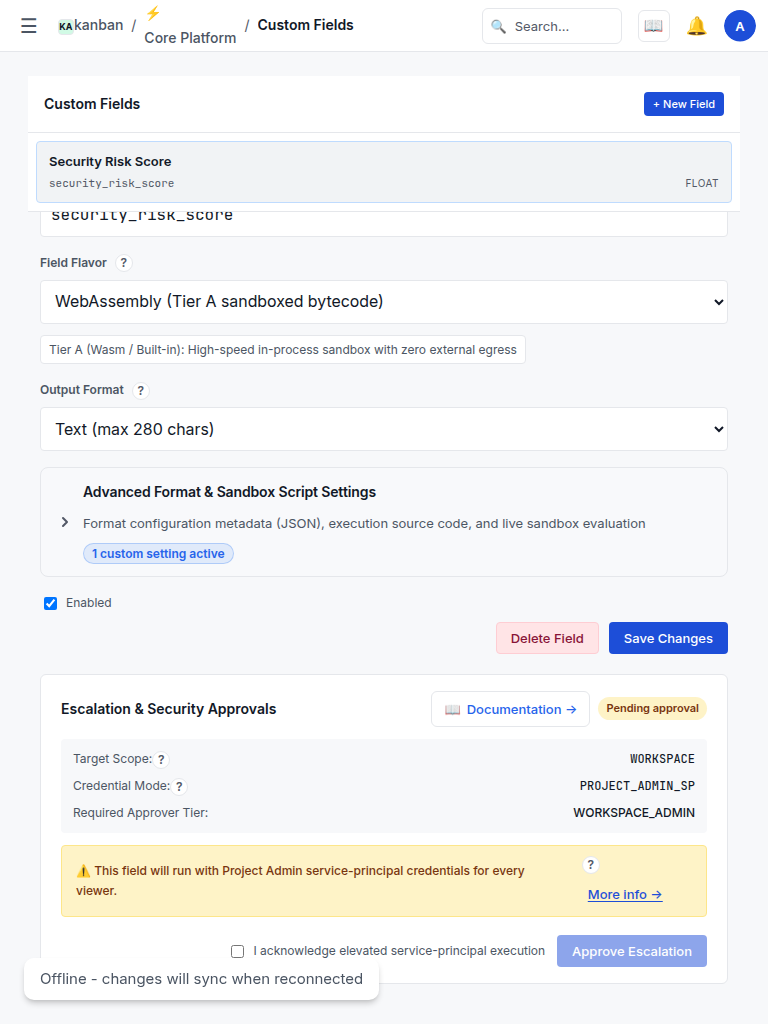
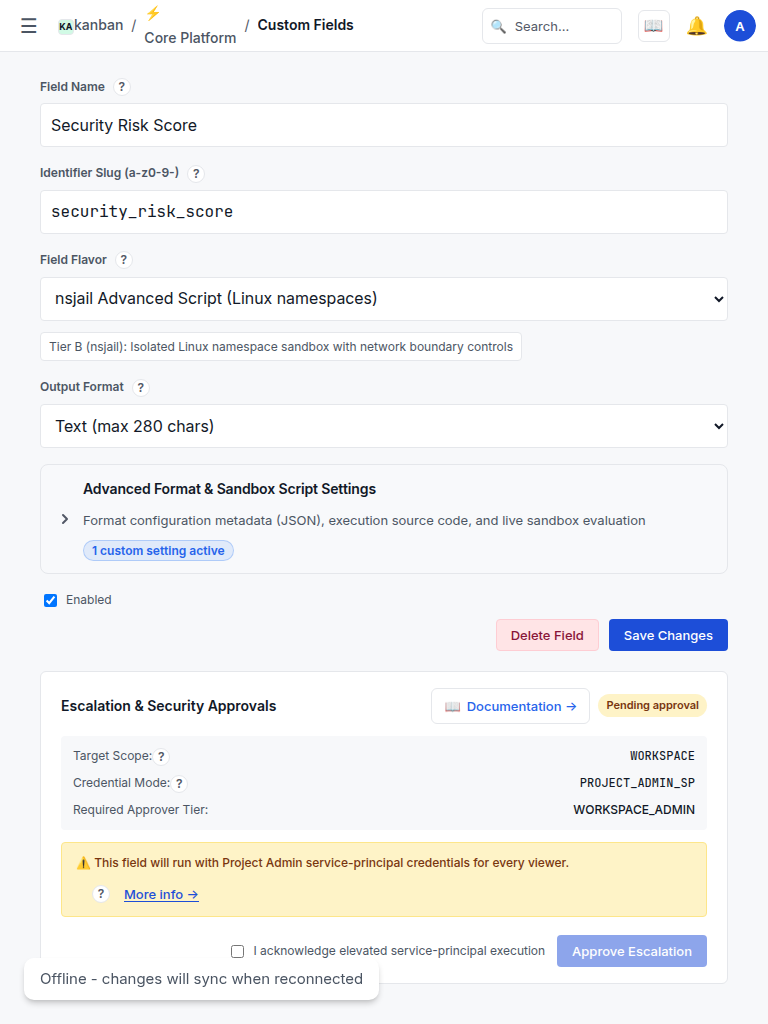
fix(custom-fields): [KAN-508] fix HTML 4.10.4 label nesting, mobile warning wrap, and refresh screenshots

diff --git a/kanban/web/src/features/custom-fields/EscalationApprovalPanel.tsx b/kanban/web/src/features/custom-fields/EscalationApprovalPanel.tsx
@@ -390,8 +390,10 @@ export function EscalationApprovalPanel({
               Provide justification for running this field with elevated scope or credentials.
             </p>
             <div className="custom-field-form-group">
-              <label htmlFor="approval-justification" className="custom-field-form-label">
-                Business Justification (min 10 characters)
+              <div className="custom-field-approval-label-row">
+                <label htmlFor="approval-justification" className="custom-field-form-label">
+                  Business Justification (min 10 characters)
+                </label>
                 <FieldHelpHint
                   title="Business Justification"
                   summary="Audit justification explaining why elevated scope or service-principal credentials are required."
@@ -399,7 +401,7 @@ export function EscalationApprovalPanel({
                   docHref="/docs/custom-fields#approvals"
                   testId="hint-escalation-justification"
                 />
-              </label>
+              </div>
               <textarea
                 id="approval-justification"
                 className="custom-field-textarea"
@@ -453,15 +455,17 @@ export function EscalationApprovalPanel({
             </p>
             <form onSubmit={handleAal2Submit}>
               <div className="custom-field-form-group">
-                <label htmlFor="aal2-otp" className="custom-field-form-label">
-                  Passkey or Authenticator Code
+                <div className="custom-field-approval-label-row">
+                  <label htmlFor="aal2-otp" className="custom-field-form-label">
+                    Passkey or Authenticator Code
+                  </label>
                   <FieldHelpHint
                     title="AAL2 Step-Up Verification"
                     summary="Secondary factor verification required before executing or approving administrative escalation."
                     docHref="/docs/custom-fields#aal2-stepup"
                     testId="hint-escalation-aal2"
                   />
-                </label>
+                </div>
                 <input
                   id="aal2-otp"
                   type="text"

diff --git a/kanban/web/src/features/custom-fields/custom-fields.css b/kanban/web/src/features/custom-fields/custom-fields.css
@@ -752,6 +752,12 @@
   display: flex;
   align-items: center;
   gap: 8px;
+  flex-wrap: wrap;
+}
+
+.custom-field-sp-warning-banner .kb-error-help-container,
+.custom-field-sp-warning-banner .kb-error-help-doc-link {
+  white-space: nowrap;
 }
 
 .custom-field-error-banner {
@@ -844,6 +850,12 @@
   margin-top: 6px;
 }
 
+.custom-field-approval-label-row {
+  display: inline-flex;
+  align-items: center;
+  gap: 6px;
+}
+
 /* --------------------------------------------------------------------------
    RESPONSIVE ADAPTATIONS (<= 768px, KANBA-213)
    -------------------------------------------------------------------------- */
@@ -859,6 +871,8 @@
     flex-direction: column;
     max-width: 100%;
     overflow-x: hidden;
+    height: auto;
+    overflow: visible;
   }
 
   .custom-fields-editor-sidebar {
@@ -866,6 +880,8 @@
     max-width: 100%;
     flex: 0 0 auto;
     max-height: 200px;
+    overflow-y: auto;
+    flex-shrink: 0;
     border-right: none;
     border-bottom: 1px solid var(--border-subtle, #e5e7eb);
   }

diff --git a/kanban/web/src/features/custom-fields/__tests__/EscalationApprovalPanel.test.tsx b/kanban/web/src/features/custom-fields/__tests__/EscalationApprovalPanel.test.tsx
@@ -573,7 +573,10 @@ describe('EscalationApprovalPanel', () => {
 
     // Open request modal
     fireEvent.click(await screen.findByTestId('request-approval-btn'));
-    expect(screen.getByTestId('hint-escalation-justification')).toBeDefined();
+    const justificationHint = screen.getByTestId('hint-escalation-justification');
+    expect(justificationHint).toBeDefined();
+    const justificationLabel = screen.getByText('Business Justification (min 10 characters)');
+    expect(justificationLabel.contains(justificationHint)).toBe(false);
   });
 
   describe('StudioDocLink Header Integration (KAN-508)', () => {
